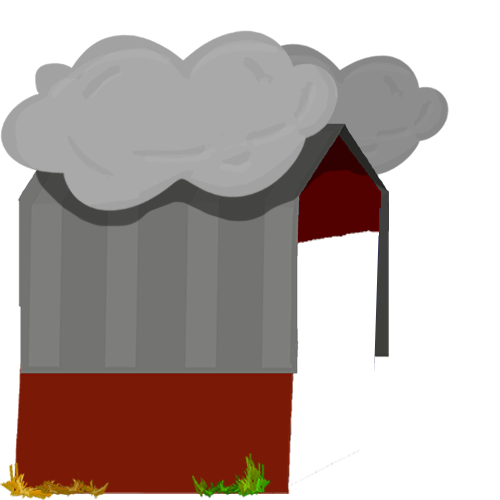
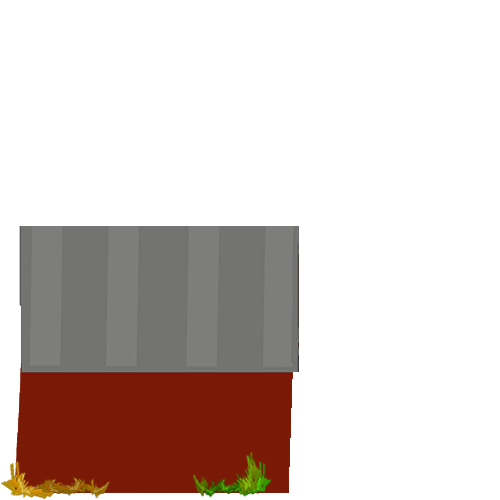
positioning tweaks

diff --git a/src/main/java/thesimpleton/effects/BarnstormAnimalChargeEffect.java b/src/main/java/thesimpleton/effects/BarnstormAnimalChargeEffect.java
@@ -74,6 +74,7 @@ public class BarnstormAnimalChargeEffect extends AbstractGameEffect {
     private final int animalWidth;
     private final int animalHeight;
 
+    private final float animalOffsetX = 0;
     private final float animalOffsetY;
 
     private BarnstormAction.BarnstormAnimal animal;
@@ -124,9 +125,8 @@ public class BarnstormAnimalChargeEffect extends AbstractGameEffect {
         animalWidth = animalImage.getWidth();
         animalHeight = animalImage.getHeight();
         this.animalOffsetY = animalOffsetY;
-
-        this._x = this._initialX = initialX;
-        this._y = this._initialY = initialY;
+        this._initialX = initialX; // initialX - barnWidth / 2.0F * Settings.xScale;
+        this._initialY = initialY; // initialY - barnHeight / 2.0F * Settings.yScale;
         this._targetX = target.drawX - target.hb_w / 2.0F - animalWidth;
         this._targetY = initialY;
         this.target = target;
@@ -164,8 +164,10 @@ public class BarnstormAnimalChargeEffect extends AbstractGameEffect {
             float t = ((this.totalDuration - getInitialWaitDuration()) - this.duration) / this.totalDuration;
             float tInterpolated = Interpolation.swing.apply(t);
 
-            this._x = MathUtils.lerp(_initialX,  _targetX, tInterpolated);
-            this._y = MathUtils.lerp(_initialY,  _targetY, tInterpolated);
+            float animalInitialX = _initialX + animalOffsetX * Settings.scale;
+            float animalInitialY = _initialY + animalOffsetY * Settings.scale;
+            this._x = MathUtils.lerp(animalInitialX, _targetX, tInterpolated);
+            this._y = MathUtils.lerp(animalInitialY, _targetY, tInterpolated);
 
 //            TheSimpletonMod.traceLogger.log("[BarnstormAnimalChargeEffect] update() called."
 //                    + " t: " + (this.totalDuration - this.duration) / this.totalDuration
@@ -186,10 +188,15 @@ public class BarnstormAnimalChargeEffect extends AbstractGameEffect {
     @Override
     public void render(SpriteBatch sb) {
         sb.setColor(this.color);
-        sb.draw(barnUnderlayImage, this._initialX - barnWidth/2f, this._initialY,
-                barnWidth/2f, barnHeight/2f, // 0.0F, 0.0F
+
+        //  b.draw(this.img, this.drawX - (float)this.img.getWidth() * Settings.scale / 2.0F + this.animX, this.drawY, (float)this.img.getWidth() * Settings.scale, (float)this.img.getHeight() * Settings.scale, 0, 0, this.img.getWidth(), this.img.getHeight(), this.flipHorizontal, this.flipVertical);
+
+        sb.draw(barnUnderlayImage,
+                this._initialX - barnWidth / 2.0F * Settings.xScale,
+                this._initialY,
+                0, 0, // barnWidth/2f, barnHeight/2f,
                 barnWidth, barnHeight,
-                this.scale * Settings.scale, this.scale * Settings.scale,
+                Settings.xScale, Settings.yScale,
                 this.rotation,
                 0, 0,
                 barnWidth, barnHeight,
@@ -201,8 +208,9 @@ public class BarnstormAnimalChargeEffect extends AbstractGameEffect {
                     + " x,y: (" + this._x + ", " + this._y + ")"
                     + " image w/h: (" + this.animalImage.getWidth() + ", " + this.animalImage.getHeight()+ ")");
 
-            sb.draw(animalImage, this._x, this._y - barnUnderlayImage.getHeight() + (animalImage.getHeight() + animalOffsetY) * Settings.scale,
-                    animalWidth/2f, animalHeight/2f,
+
+            sb.draw(animalImage, this._x, this._y,
+                    0, 0,
                     animalWidth, animalHeight,   // 0.0F, 0.0F)
                     this.scale * Settings.scale, this.scale * Settings.scale,
                     this.rotation,
@@ -219,14 +227,25 @@ public class BarnstormAnimalChargeEffect extends AbstractGameEffect {
 //                    animalWidth, animalHeight,
 //                    false, false);
 
-            sb.draw(barnOverlayImage,this._initialX - barnWidth/2f, this._initialY,
-                    barnWidth/2f, barnHeight/2f,
+            sb.draw(barnOverlayImage,
+                    this._initialX - barnWidth / 2.0F * Settings.xScale,
+                    this._initialY,
+                    0, 0, // barnWidth/2f, barnHeight/2f,
                     barnWidth, barnHeight,
-                    this.scale * Settings.scale, this.scale * Settings.scale,
+                    Settings.xScale, Settings.yScale,
                     this.rotation,
-                               0, 0,
+                    0, 0,
                     barnWidth, barnHeight,
                     false, false);
+
+//            sb.draw(barnOverlayImage,this._initialX - barnWidth/2f, this._initialY,
+//                    barnWidth/2f, barnHeight/2f,
+//                    barnWidth, barnHeight,
+//                    this.scale * Settings.scale, this.scale * Settings.scale,
+//                    this.rotation,
+//                   0, 0,
+//                    barnWidth, barnHeight,
+//                    false, false);
         }
     }
 

diff --git a/src/main/java/thesimpleton/actions/BarnstormAction.java b/src/main/java/thesimpleton/actions/BarnstormAction.java
@@ -33,7 +33,7 @@ public class BarnstormAction extends AbstractGameAction {
 
   private static final float BARN_X_OFFSET = 0.0F;
 
-  private static final float BARN_Y_OFFSET = 90.0F;
+  private static final float BARN_Y_OFFSET = -20.0F;
   private static final float LIGHTNING_Y_OFFSET = 110.0F;
   private static final float ANIMAL_Y_OFFSET = 10.0F;
 
